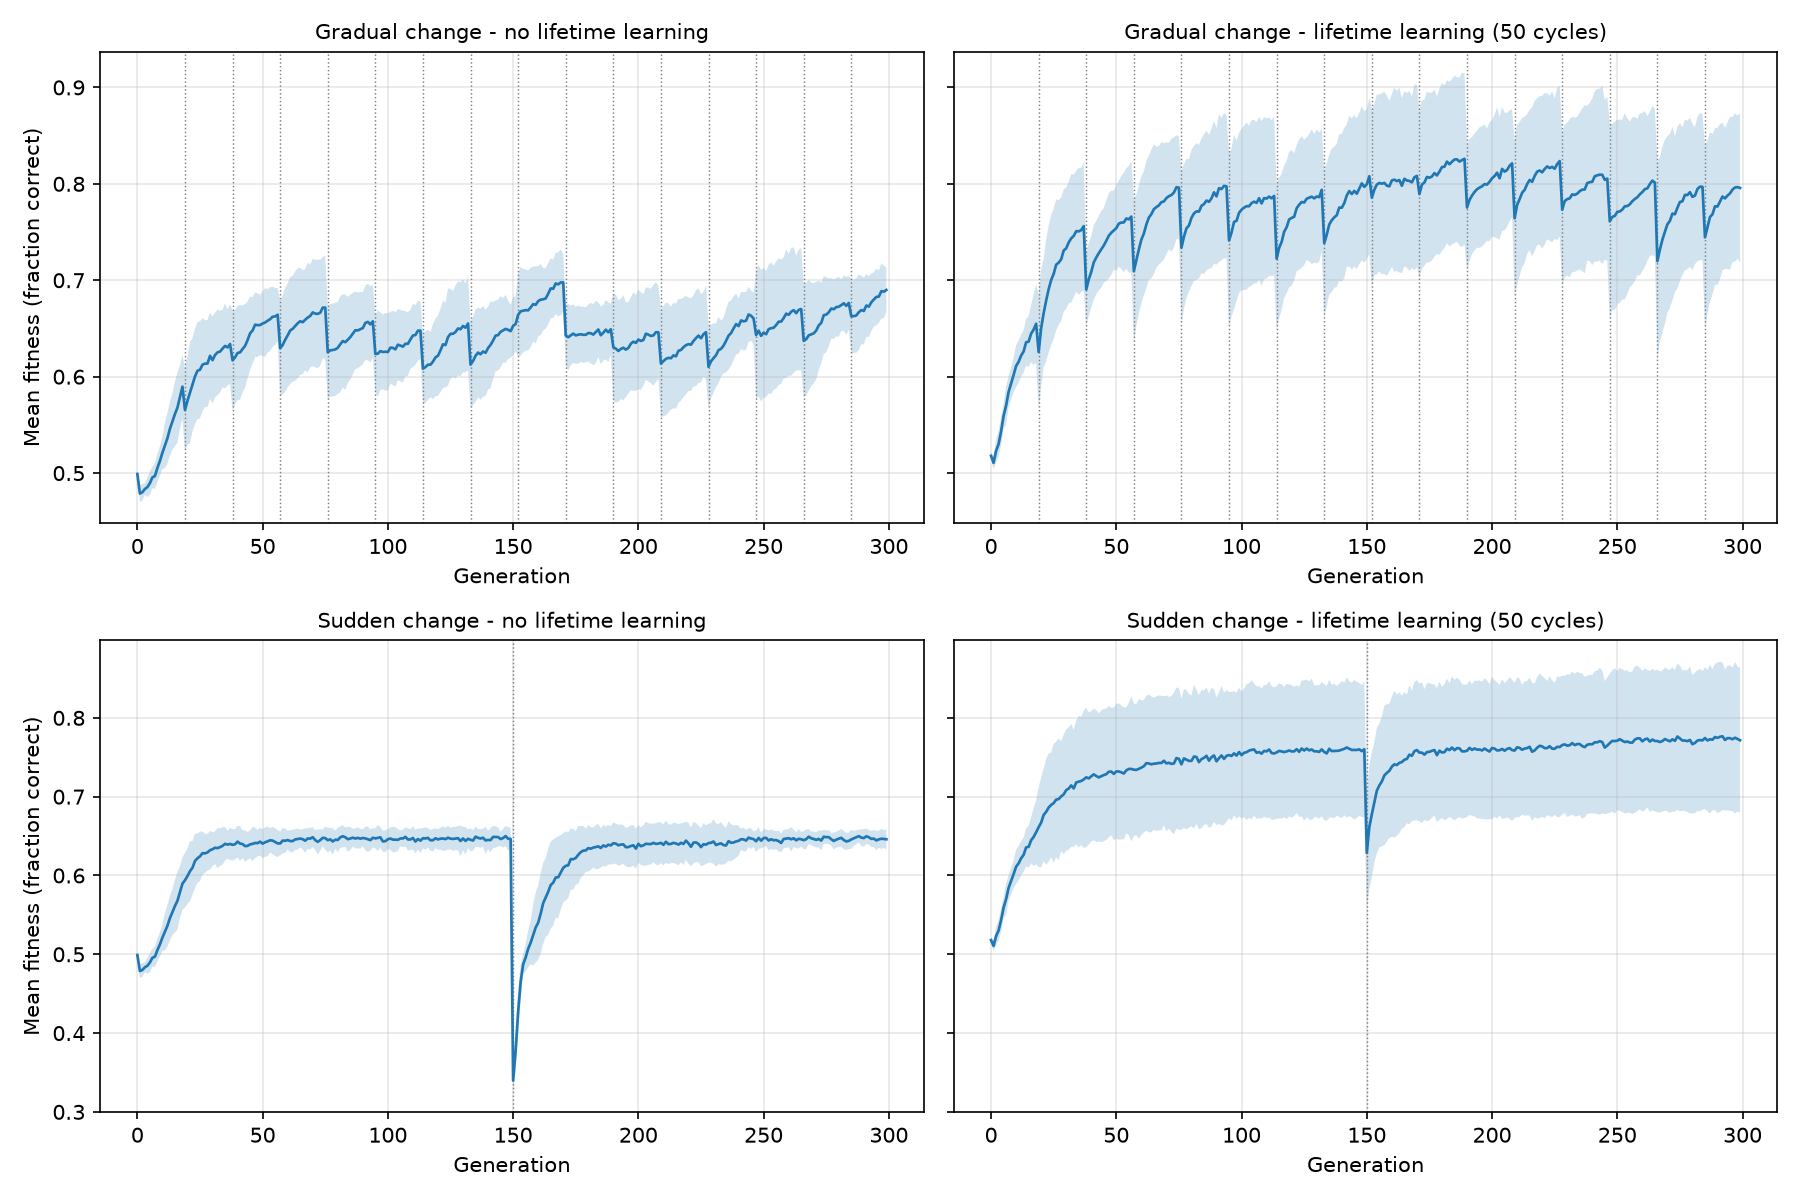
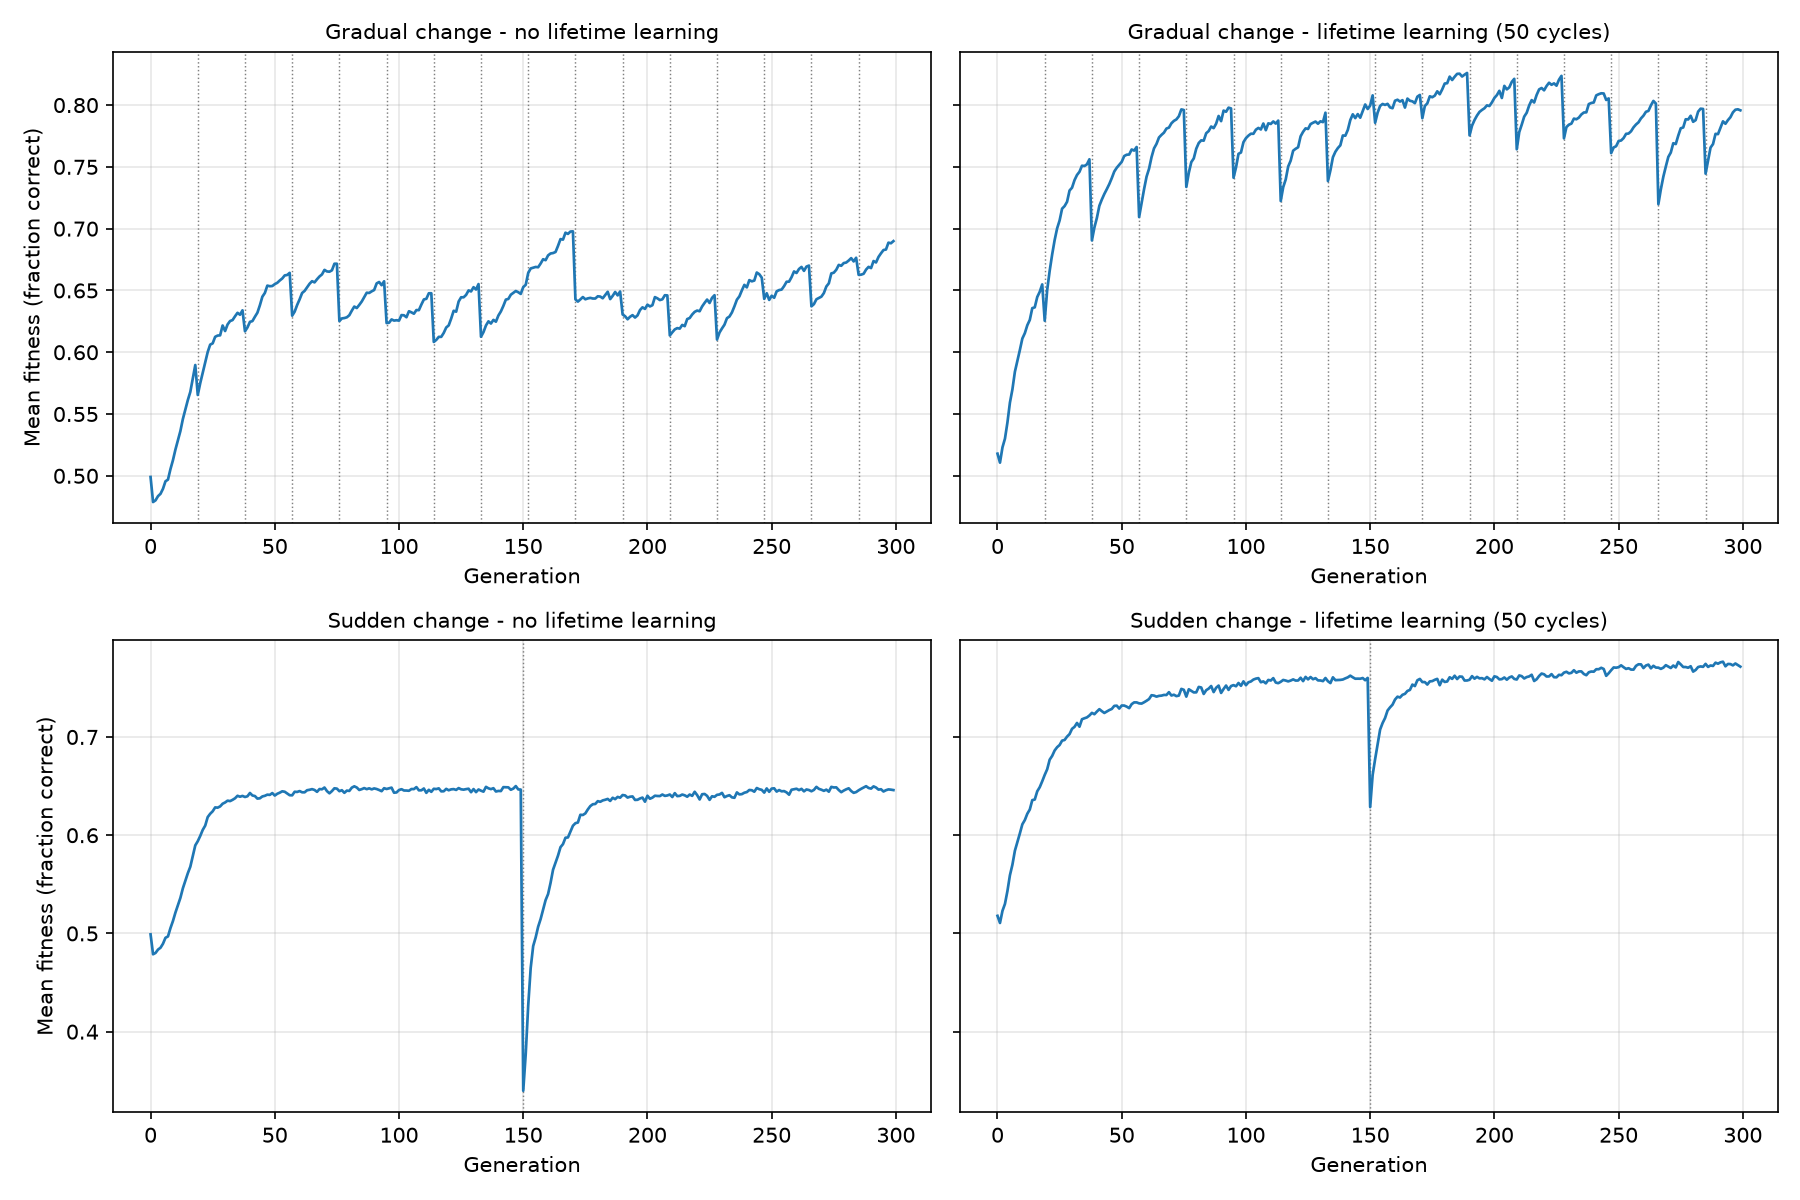
fixed plotting + new fig

diff --git a/2004-ORiordan-Curran/plot.py b/2004-ORiordan-Curran/plot.py
@@ -39,7 +39,7 @@ def summarise(mode, runs, n_gen):
 
 if __name__ == "__main__":
     ap = argparse.ArgumentParser()
-    ap.add_argument("--dir", default="results")
+    ap.add_argument("--dir", default=os.path.join(os.path.dirname(os.path.abspath(__file__)), "results"))
     ap.add_argument("--learn-cycles", type=int, default=50)
     ap.add_argument("--out", default="figures.png")
     a = ap.parse_args()
@@ -58,10 +58,9 @@ if __name__ == "__main__":
             ax.text(0.5, 0.5, "no results", ha="center", transform=ax.transAxes)
             continue
         n_gen = runs.shape[1]
-        m, sd = runs.mean(axis=0), runs.std(axis=0)
+        m = runs.mean(axis=0)
         for g in change_gens(mode, n_gen):
             ax.axvline(g, color="grey", ls=":", lw=0.7)
-        ax.fill_between(range(n_gen), m - sd, m + sd, alpha=0.2)
         ax.plot(m, lw=1.3)
         print(f"{title}\n{summarise(mode, runs, n_gen)}")
     axes[0, 0].set_ylabel("Mean fitness (fraction correct)")
